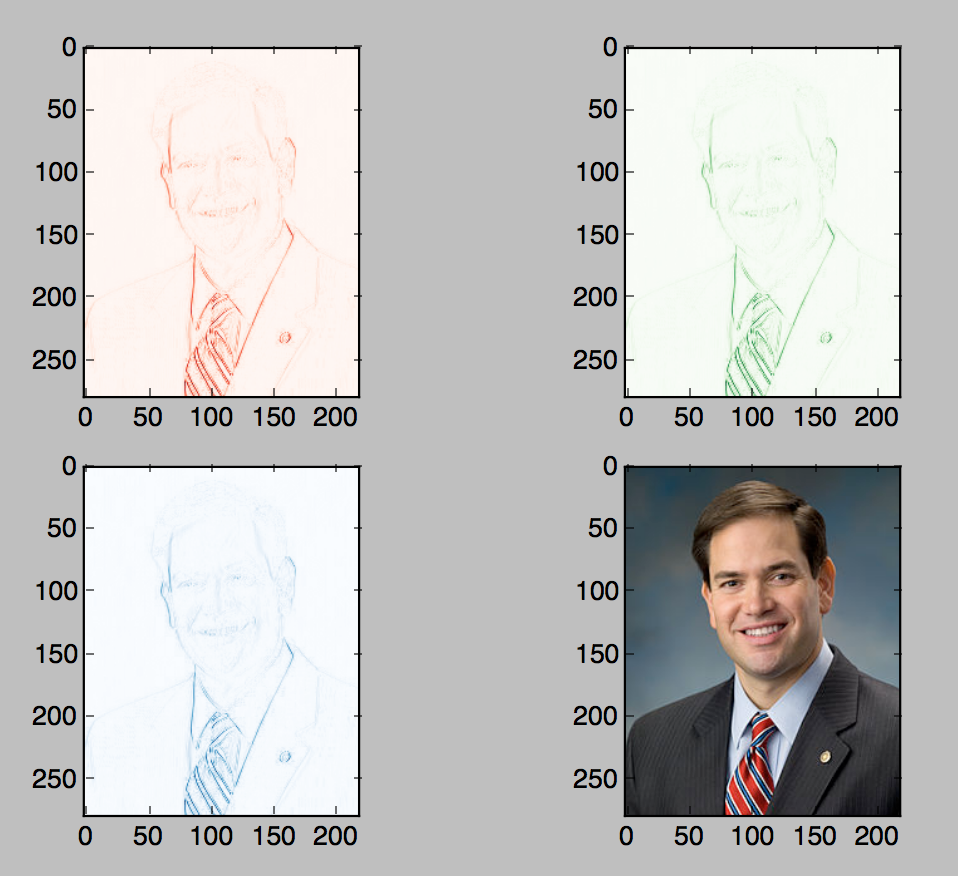
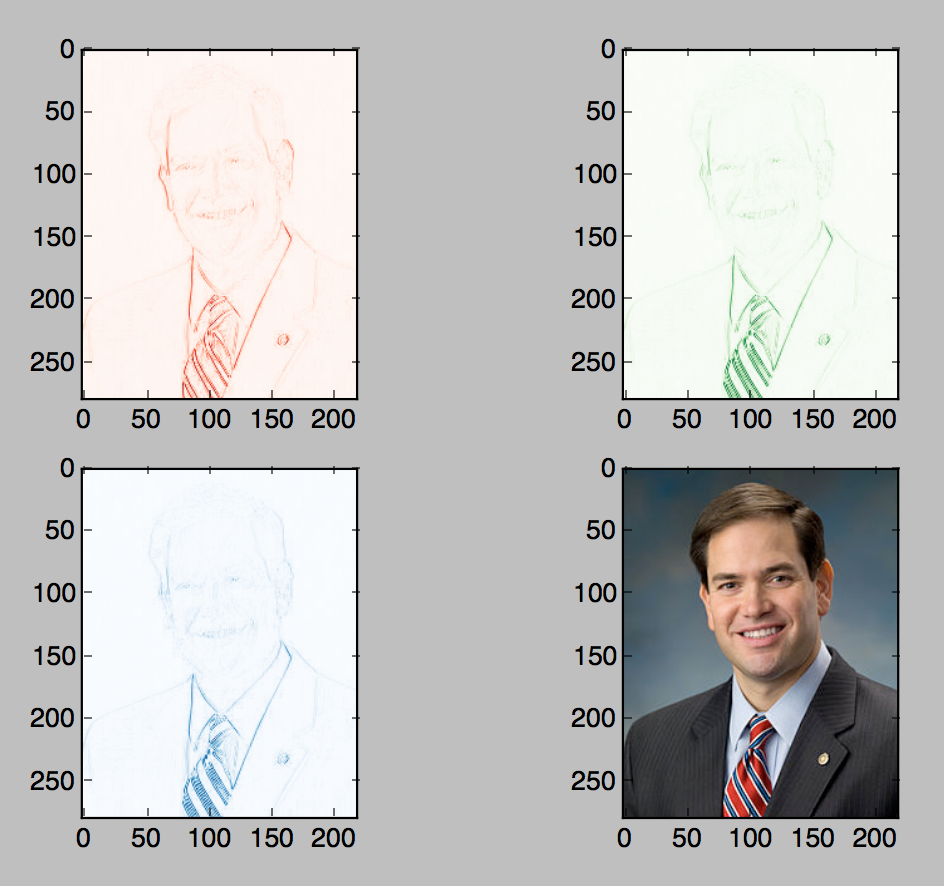
fix slice

diff --git a/image_slice.py b/image_slice.py
@@ -17,9 +17,9 @@ r = Retargeter()
 plt.subplot(221)
 plt.imshow(1-r._Deriv(scaled_image_data)[:,:,0], cmap=plt.cm.Reds_r)
 plt.subplot(222)
-plt.imshow(1-r._Deriv(scaled_image_data)[:,:,0], cmap=plt.cm.Greens_r)
+plt.imshow(1-r._Deriv(scaled_image_data)[:,:,1], cmap=plt.cm.Greens_r)
 plt.subplot(223)
-plt.imshow(1-r._Deriv(scaled_image_data)[:,:,0], cmap=plt.cm.Blues_r)  
+plt.imshow(1-r._Deriv(scaled_image_data)[:,:,2], cmap=plt.cm.Blues_r)  
 plt.subplot(224)
 plt.imshow(scaled_image_data)  
 plt.show()
